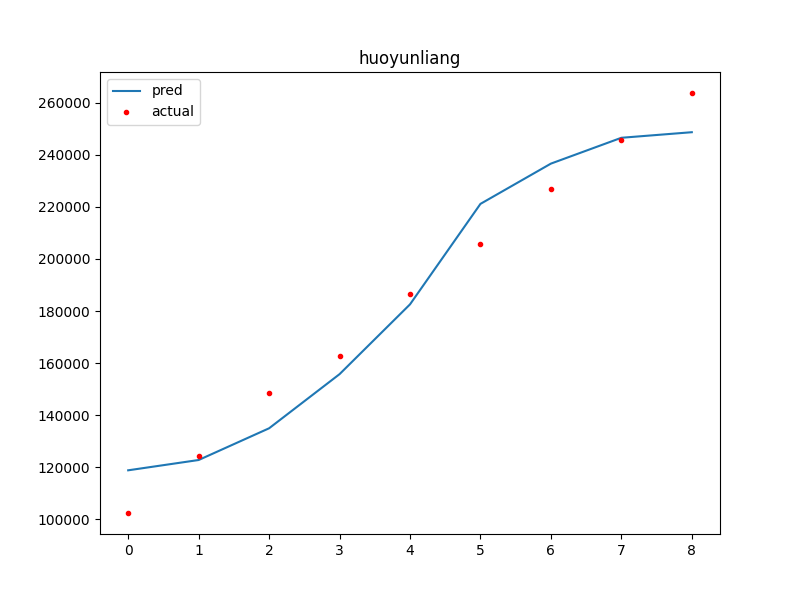
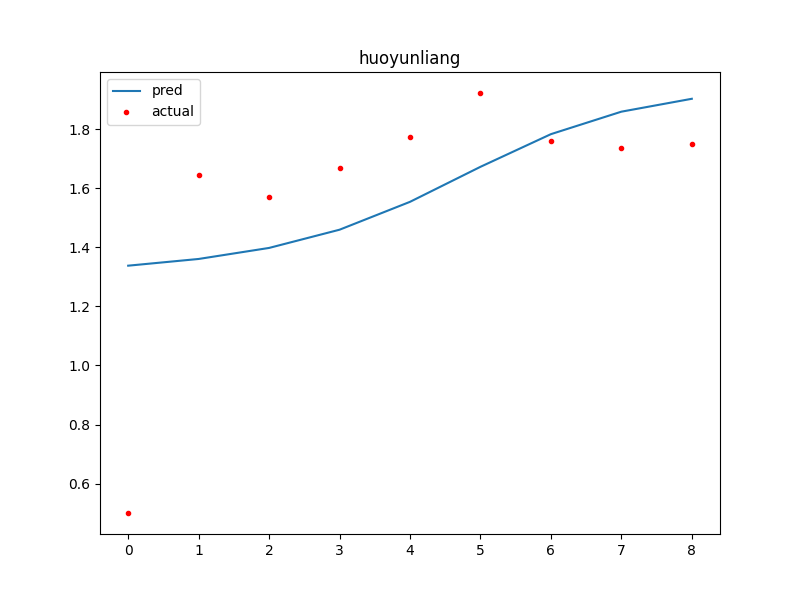
for jiaojiao update

diff --git a/utils/utils.py b/utils/utils.py
@@ -33,6 +33,37 @@ def _darw(y,pridict,origin_label,pridict_label,colour,xlabel,ylabel,title):
     plt.show()
 
 
+# def _read_csv_(path):
+#     '''
+#     :param path:
+#     :return:
+#     '''
+#
+#     # 加载数据集
+#     # boston_data = load_boston()
+#     # print(boston_data)
+#     df = pd.read_csv(path, encoding='GBK')
+#     y = df[['closePrice']].values
+#     df = df.dropna(axis=0, how='all')
+#     df = df.set_index('tradeDate').copy()
+#     X = np.mat(range(1, len(df.values) + 1)).T
+#     X = np.array(X).reshape(-1, 1)
+#     print(X.size, y.size)
+#
+#     # 拆分数据集
+#     # x = boston_data.data
+#     # y = boston_data.target
+#     x_train, x_test, y_train, y_test = train_test_split(X, y, test_size=0.2, random_state=10)
+#     # 预处理
+#     y_train = np.array(y_train).reshape(-1, 1)
+#     y_test = np.array(y_test).reshape(-1, 1)
+#     x_train = StandardScaler().fit_transform(x_train)
+#     x_test = StandardScaler().fit_transform(x_test)
+#     y_train = StandardScaler().fit_transform(y_train).ravel()
+#     y_test = StandardScaler().fit_transform(y_test).ravel()
+#     return x_train, x_test, y_train, y_test
+
+
 def _read_csv_(path):
     '''
     :param path:
@@ -42,18 +73,25 @@ def _read_csv_(path):
     # 加载数据集
     # boston_data = load_boston()
     # print(boston_data)
-    df = pd.read_csv(path, encoding='GBK')
-    y = df[['closePrice']].values
+    df = pd.read_csv(path, encoding='utf8')
+    # y = df[['单位GDP通航飞行时间']].values
+    y = df[['y2']].values
     df = df.dropna(axis=0, how='all')
-    df = df.set_index('tradeDate').copy()
-    X = np.mat(range(1, len(df.values) + 1)).T
-    X = np.array(X).reshape(-1, 1)
+    #df = df.set_index('居民消费水平').copy()
+    #X = np.mat(range(1, len(df.values) + 1)).T
+    # X = df[['社会消费品零售总额','第一产业增加值','第三产业增加值','民航全行业利润总额','通航企业数量','通用航空器数量','通航产业政策绩效']]
+    X = df[['x1','x2','x3','x4','x5','x6','x7']]
+    print(X)
+    X = X.values
+    # X = np.array(X).reshape(-1, 1)
     print(X.size, y.size)
 
     # 拆分数据集
     # x = boston_data.data
     # y = boston_data.target
-    x_train, x_test, y_train, y_test = train_test_split(X, y, test_size=0.2, random_state=10)
+    # x_train, x_test, y_train, y_test = train_test_split(X, y, test_size=0.2, random_state=10)
+    # x_train, x_test, y_train, y_test = X,X,y,y
+    x_train, x_test, y_train, y_test = X[:-7], X[10:], y[:-7], y[10:]
     # 预处理
     y_train = np.array(y_train).reshape(-1, 1)
     y_test = np.array(y_test).reshape(-1, 1)
@@ -65,11 +103,14 @@ def _read_csv_(path):
 
 
 def _read_csv_huoyun(path):
-    df = pd.read_csv(path, encoding='GBK')
+    df = pd.read_csv(path, encoding='utf-8') #GBK
     print(df.head)
     '''use dropna(axis=0,how='all')'''
     df = df.dropna(axis=0, how='all')
 
-    x = df[['GDP', '工业总产值', '铁路运输长度', '复线比例', '公路运输长度', '等级公路比重', '铁路货运数量', '民用载货车辆']]
-    y = df[['货运量', '铁路货运量', '公路货运量']]
+    # x = df[['GDP', '工业总产值', '铁路运输长度', '复线比例', '公路运输长度', '等级公路比重', '铁路货运数量', '民用载货车辆']]
+    # y = df[['货运量', '铁路货运量', '公路货运量']]
+    x = df[['x1','x2','x3','x4','x5','x6','x7']]
+    y = df[['y1','y2','y3']]
+    x,y = x[:-7],y[:-7]
     return x,y

diff --git a/script/single_svr.py b/script/single_svr.py
@@ -14,17 +14,19 @@ from utils.utils import _read_csv_,_darw
 # print(boston.feature_names)
 # x=boston.data
 # y=boston.target
-path = '/Users/kanghaidong/Desktop/haidong/github-reper/Machine-learning-regression-algorithm/data/train.csv'
-df=pd.read_csv(path,encoding='GBK')
+path = '/Users/kanghaidong/Desktop/haidong/github-reper/Machine-learning-regression-algorithm/data/hangkongshuju.csv'
+df=pd.read_csv(path,encoding='utf-8') # GBK
 print(df.head)
 '''use dropna(axis=0,how='all')'''
 df = df.dropna(axis=0,how='all')
 
-x=df[['GDP','工业总产值','铁路运输长度','复线比例','公路运输长度','等级公路比重','铁路货运数量','民用载货车辆']]
-y=df[['货运量']]
+# x=df[['GDP','工业总产值','铁路运输长度','复线比例','公路运输长度','等级公路比重','铁路货运数量','民用载货车辆']]
+# y=df[['货运量']]
+x = df[['x1','x2','x3','x4','x5','x6','x7']]
+y = df[['y3']]
 # 拆分数据集
 # x_train,x_test,y_train,y_test=train_test_split(x,y,test_size=0.7,random_state=10)
-x_train,x_test,y_train,y_test = x[:-1],x[9:],y[:-1],y[9:]
+x_train,x_test,y_train,y_test = x[:-7],x[10:],y[:-7],y[10:]
 # 预处理
 y_train = np.array(y_train).reshape(-1, 1)
 y_test = np.array(y_test).reshape(-1, 1)
@@ -42,7 +44,7 @@ score = svr.score(x_train,y_train)
 pridict = svr.predict(x_test)
 
 #打印未来预测值
-print(f'predict:{pridict}')
+print(f'predict futrue: {pridict}')
 
 #评价结果
 mae = mean_absolute_error(y_train, svr_predict)
@@ -56,7 +58,7 @@ print("R2：", r2)
 print("score",score)
 
 # 绘图
-_darw(y_train+1,svr_predict,'y_test','pridict','g','days','house_price','house_price')
+_darw(y_train+1,svr_predict,'y_test','pridict','r','days','house_price','house_price')
 
 
 

diff --git a/core/svr.py b/core/svr.py
@@ -26,7 +26,7 @@ def _SVR(v, x, b):
     :param b:
     :return:
     '''
-    path = '/Users/kanghaidong/Desktop/haidong/github-reper/Machine-learning-regression-algorithm/data/stock_pinganyinhang.csv'
+    path = '/Users/kanghaidong/Desktop/haidong/github-reper/Machine-learning-regression-algorithm/data/hangkongshuju.csv'
     x_train, x_test, y_train, y_test=_read_csv_(path)
 
     c = x[0]
@@ -34,16 +34,19 @@ def _SVR(v, x, b):
     g = x[2]
     _SVR = svm.SVR(C=c, epsilon=e, gamma=g, kernel='rbf')
     _SVR.fit(x_train, y_train)
-    y_pred = _SVR.predict(x_test) # np.array
+    y_pred = _SVR.predict(x_train) # np.array
+    pridict = _SVR.predict(x_test)
 
-    print(f'predict values is: {y_pred[-1]}')
-    print(f'real values is: {y_test[-1]}')
+    # 打印未来预测值
+    print(f'predict futrue: {pridict}')
+
+    # print(f'real values is: {y_test[-1]}')
     # print("y_pred is", y_pred , "y_true is" , y_test)
     # print(len(y_pred),len(y_test))
     # 返回svm的mse作为适应度值
     # y_test = y_test.values # Pandas中把dataframe和np.array的相互转换
-    score = _SVR.score(x_test, y_test)
+    score = _SVR.score(x_train, y_train)
     print(f"score{score}")
-    _darw(y_test, y_pred, 'y_test', 'pridict', 'r', 'days', 'close_price', 'stock_price')
+    _darw(y_train, y_pred, 'y_test', 'pridict', 'r', 'days', 'close_price', 'stock_price')
 
-    return _MSE(y_pred, y_test),y_pred, y_test
+    return _MSE(y_pred, y_train),y_pred, y_train

diff --git a/core/_gs_svr.py b/core/_gs_svr.py
@@ -41,18 +41,23 @@ def _gs_svr(path):
     # 获取在训练集的模型
     svr.fit(x_train, y_train)
     # 预测结果
-    svr_predict = svr.predict(x_test)
+    svr_predict = svr.predict(x_train)
+
+    pridict = svr.predict(x_test)
+
+    # 打印未来预测值
+    print(f'predict future: {pridict}')
 
     #predict
-    print(f'predict values is: {svr_predict[-6:-1]}')
+    print(f'predict exit values is: {svr_predict[-6:-1]}')
     print(f'real values is: {y_test[-6:-1]}')
-    score = svr.score(x_test, y_test)
+    score = svr.score(x_train, y_train)
     # 模型评测
-    mae = mean_absolute_error(y_test, svr_predict)
-    mse = mean_squared_error(y_test, svr_predict)
-    evs = explained_variance_score(y_test, svr_predict)
-    r2 = r2_score(y_test, svr_predict)
+    mae = mean_absolute_error(y_train, svr_predict)
+    mse = mean_squared_error(y_train, svr_predict)
+    evs = explained_variance_score(y_train, svr_predict)
+    r2 = r2_score(y_train, svr_predict)
 
     # draw
-    _darw(y_test, svr_predict, 'y_test', 'pridict', 'r', 'days', 'close_price', 'stock_price')
+    _darw(y_train, svr_predict, 'y_test', 'pridict', 'r', 'days', 'close_price', 'stock_price')
     return score,mae,mse,evs,r2

diff --git a/script/gs_svr.py b/script/gs_svr.py
@@ -9,7 +9,7 @@ if __name__ == "__main__":
     假设你要预测3个因变量，和多个相同的自变量的关系，请一个一个因变量带入预测。
     如有疑问,如具体如何替换因变量，请call khd.
     '''
-    path = '/Users/kanghaidong/Desktop/haidong/github-reper/Machine-learning-regression-algorithm/data/stock_pinganyinhang.csv'
+    path = '/Users/kanghaidong/Desktop/haidong/github-reper/Machine-learning-regression-algorithm/data/hangkongshuju.csv'
     score,mae,mse,evs,r2 = _gs_svr(path)
     print("MAE：", mae)
     print("MSE：", mse)

diff --git a/script/knn_train.py b/script/knn_train.py
@@ -3,7 +3,7 @@ from core.bp.bp_alg import _knn_bp
 
 
 if __name__ == "__main__":
-    path = '/Users/kanghaidong/Desktop/haidong/github-reper/Machine-learning-regression-algorithm/data/train.csv'
+    path = '/Users/kanghaidong/Desktop/haidong/github-reper/Machine-learning-regression-algorithm/data/hangkongshuju.csv'
     save = '/Users/kanghaidong/Desktop/haidong/github-reper/Machine-learning-regression-algorithm/result/'
     network_out,sample_out = _knn_bp(path,save)
 
